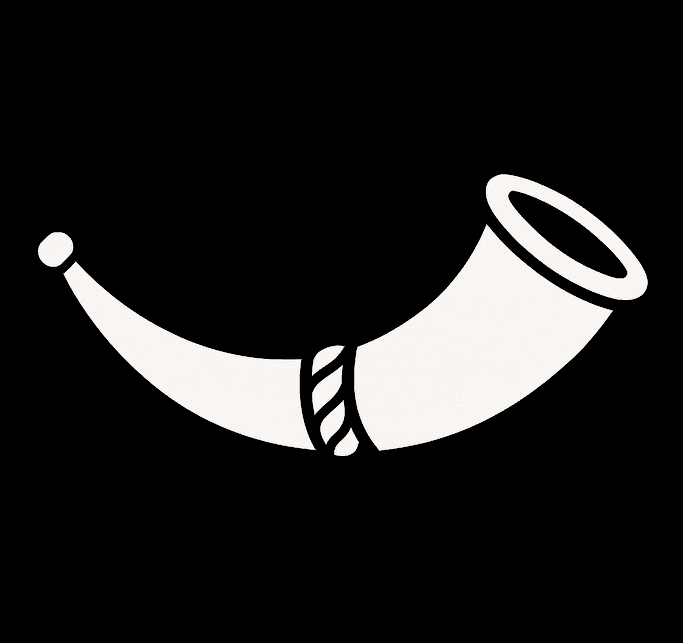
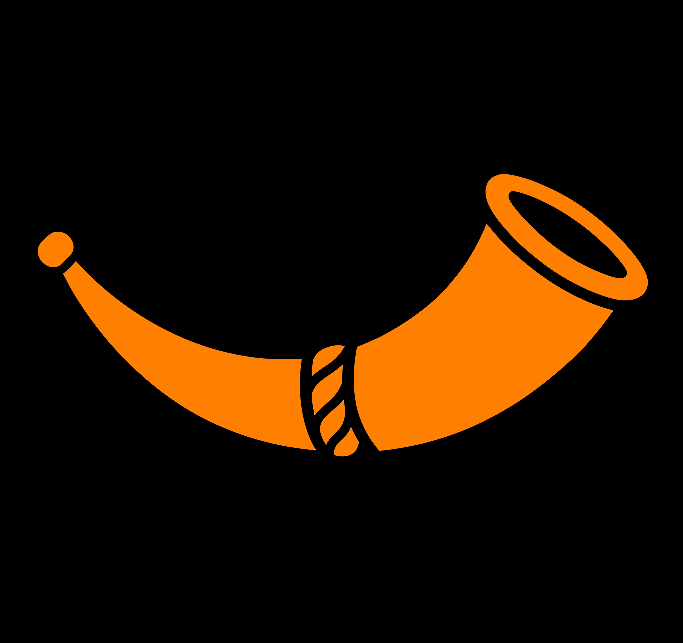
color

Changed region(s): [[0.0307, 0.2488, 0.9531, 0.7154]]

diff --git a/app/page.tsx b/app/page.tsx
@@ -9,10 +9,10 @@ export default function HomePage() {
 			<div className="space-y-10 flex flex-col items-center py-16 text-center">
 				<h1 className="text-3xl font-bold sm:text-4xl">Welcome!</h1>
 				<Image
-					src="/logo?color.png"
+					src="/logo_color.png"
 					alt="The Gathering Call Logo"
-					width={240}
-					height={240}
+					width={320}
+					height={320}
 					className="h-60 w-auto"
 				/>
 				<section className="rounded-2xl border border-sky-500/20 bg-gradient-to-br from-sky-900/30 to-slate-900/50 p-8 shadow-xl max-w-2xl">
